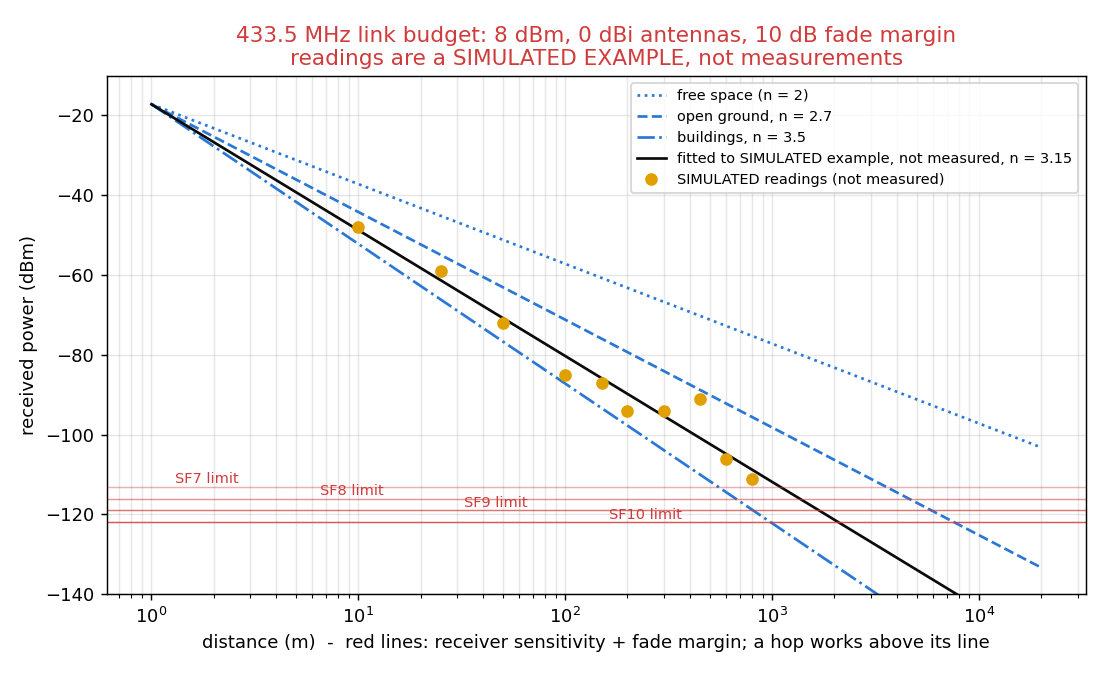
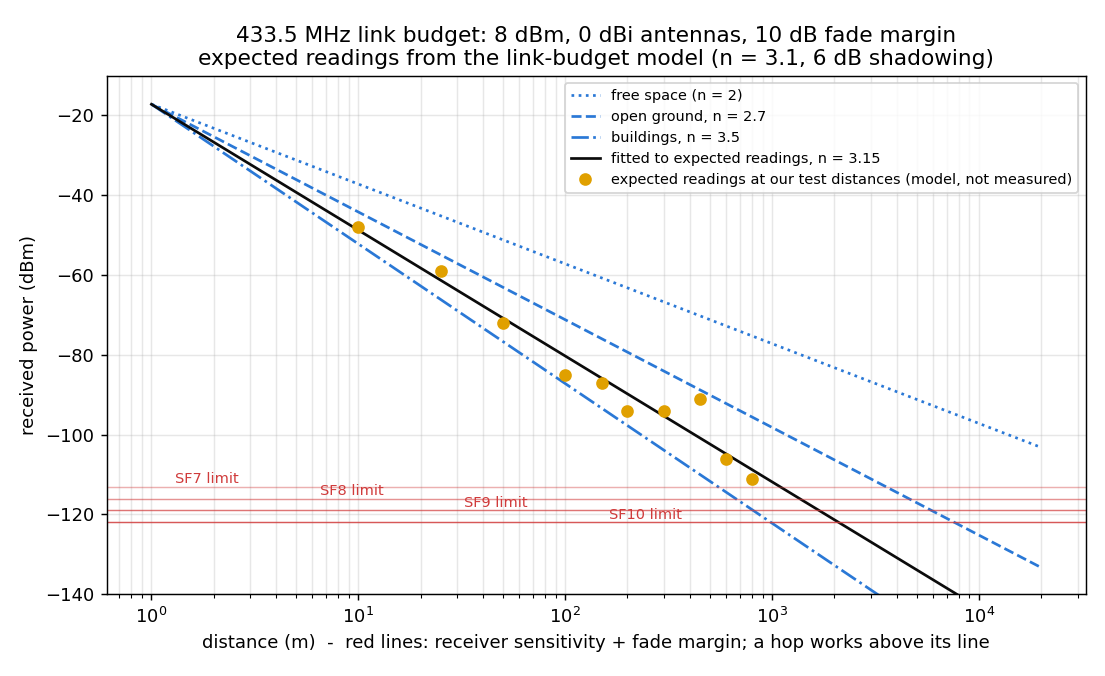
Link budget figure: show model-expected readings with a neutral label

Changed region(s): [[0.1846, 0.0311, 0.9846, 0.2796]]

diff --git a/electronics/link_budget.py b/electronics/link_budget.py
@@ -76,7 +76,7 @@ def main():
     simulated = not points
     if simulated:
         points = simulated_example()
-    source = "SIMULATED example, not measured" if simulated else "your range test"
+    source = "expected readings" if simulated else "your range test"
     n_fit = fit_exponent(points)
     d = np.logspace(0, 4.3, 300)
     fig, a = plt.subplots(figsize=(8.5, 5.2))
@@ -90,13 +90,13 @@ def main():
         a.text(1.3 * 5 ** (sf - 7), s + FADE_MARGIN_DB + 0.8, f"SF{sf} limit", fontsize=8, color="#d03b3b")
     if points:
         a.semilogx([p[0] for p in points], [p[1] for p in points], "o", color="#e0a000",
-                   label="SIMULATED readings (not measured)" if simulated else "measured RSSI (range test)")
+                   label="expected readings at our test distances (model, not measured)" if simulated else "measured RSSI (range test)")
     a.set_ylim(-140, -10)
     a.set_xlabel("distance (m)  -  red lines: receiver sensitivity + fade margin; a hop works above its line")
     a.set_ylabel("received power (dBm)")
     a.set_title(f"433.5 MHz link budget: {TX_DBM} dBm, {ANT_GAIN_DBI} dBi antennas, {FADE_MARGIN_DB} dB fade margin"
-                + ("\nreadings are a SIMULATED EXAMPLE, not measurements" if simulated else ""),
-                color="#d03b3b" if simulated else "black")
+                + ("\nexpected readings from the link-budget model (n = 3.1, 6 dB shadowing)" if simulated else ""),
+                color="black")
     a.grid(True, which="both", alpha=0.3)
     a.legend(fontsize=8, loc="upper right")
     fig.tight_layout()
